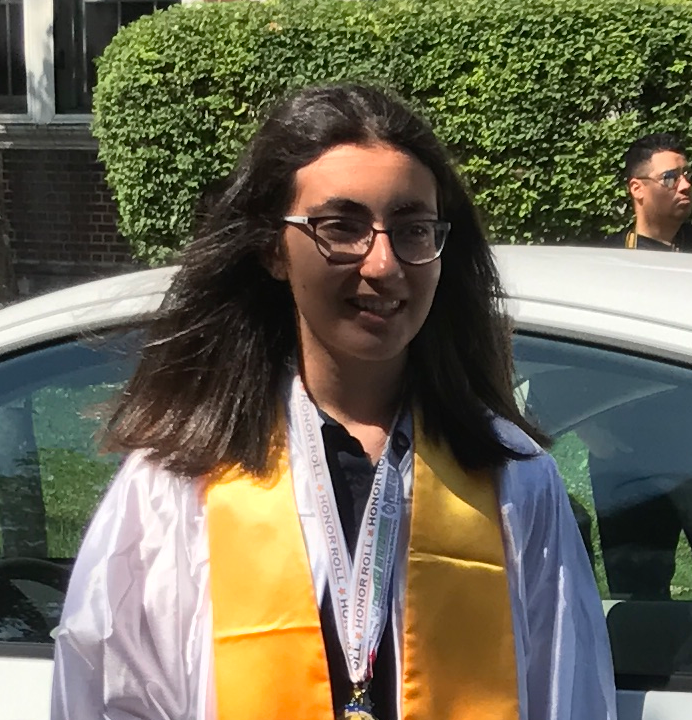
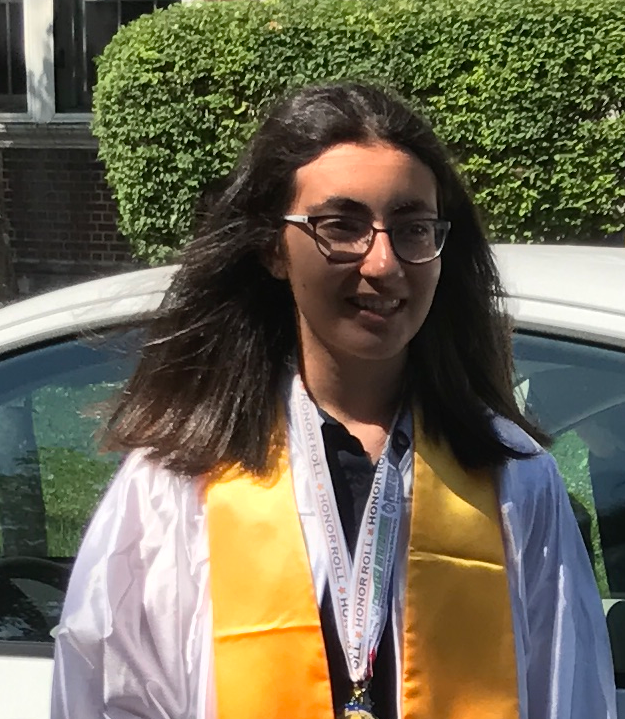
First commit

diff --git a/Final_Project/page2.html b/Final_Project/page2.html
@@ -24,6 +24,7 @@ h1 {font-size: 100px;
 
 h6 { font-size:15px;
      line-height: 2;
+     text-align:center;
 }
 
 img {float:right;}
@@ -65,17 +66,19 @@ img:hover {
   <hr>
 
 <div class="class">
-  <h6 style="margin-left:20px;"><img src="Images/IMG_0526.JPG" alt="This image is not available." style=" border-radius: 25px;width:300px;height:300px;margin-right:20px;margin-left:20px;">
-Hi there! My name is Hazal Ceylan, and I'm 15 years old.
-I'm currently a student in Lane Tech College Prep High School in Chicago. I attended Norman A. Bridge Elementary School ever since I started school, and 
-I gradtuated from 8th grade in June 2017. I was a honor roll student throughout middle school, and 
-I was also a honor student in my gradtuation. I was accepted into Lane Tech, a selective enrollment high school. 
-During 6th grade, my friends and I entered a competetion, called "The Future City Competetion"; This was a STEM based event. 
-We competed with 36 other teams, and after presenting to several judges, my friends and I were in the top five teams. We presented to different judges, and won 5th place. Our project 
-also recieved the "Best Design" and "Best Use of Water Sources" award.
-During 7th and 8th grade, I entered my school's science fair, recieving a honor award in both events. 
-In Lane Tech, I am an Alpha student, meaning my classes are mostly based upon science and math.
-I enjoy learning about are history and science, especially astromeny.
+  <h6 style="margin-left:20px;"><img src="Images/IMG_0526.JPG" alt="This image is not available." style=" border-radius: 25px;width:350px;height:350px;margin-right:20px;margin-left:20px;">
+Hi there! My name is Hazal Ceylan, and I'm 15 years old; I would like to tell you about my education life so far and my accomplishments.
+I'm currently a student in Lane Tech College Prep High School in Chicago. I attended Norman A. Bridge Elementary School since kindergarten, and 
+I graduated from 8th grade in June 2017. I was a honor roll student throughout middle school, and 
+I was also a honor student in my graduation. I was accepted into Lane Tech, a selective enrollment high school. 
+During 6th grade, my friends and I entered a competition, called "The Future City Competition"; This was a STEM based event. 
+We competed with 36 other teams, and after presenting to several judges, my friends and I were in the top five teams. After that, we presented to different judges, and won 5th place. Our project 
+also received the "Best Design" and "Best Use of Water Sources" award.
+During 7th and 8th grade, I entered my school's science fair, receiving an "Excellence" award in 7th grade and a "Honorable Mention" in 8th grade. In 8th grade, I also was qualified for a spelling bee
+tournament in my school. In Lane Tech, I am an Alpha student, meaning my classes are mostly based upon science and math. I also was a member of Student Council in my middle school, and I'm also 
+a member of Student Council in Lane Tech. I can speak three languages, including English, French, and Turkish. 
+I enjoy learning about history and science, especially astronomy. You can also find out more about my talents and hobbies on the other page! 
+
 
 
 </div>

diff --git a/Final_Project/index.html b/Final_Project/index.html
@@ -35,13 +35,10 @@ h4 {color:rgb(240, 240, 240);
     <nav class="navbar navbar-expand-sm bg-light">
      <ul class="navbar-nav">
        <li class="nav-item">
-         <a class="nav-link" href="">ABOUT ME</a>
+         <a class="nav-link" href="">EDUCATION</a>
        </li>
        <li class="nav-item">
          <a class="nav-link" href="">TALENTS & HOBBIES</a>
-       </li>
-       <li class="nav-item">
-         <a class="nav-link" href="">ACCOMPLISHMENTS</a>
        </li>
      </ul>
   </nav>
